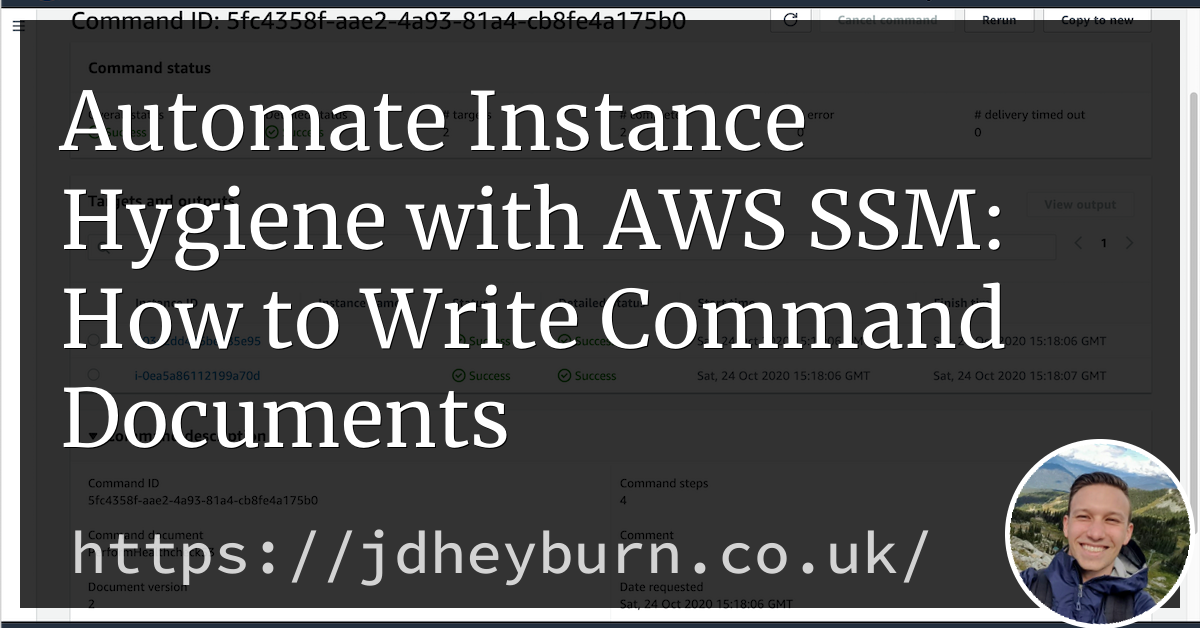
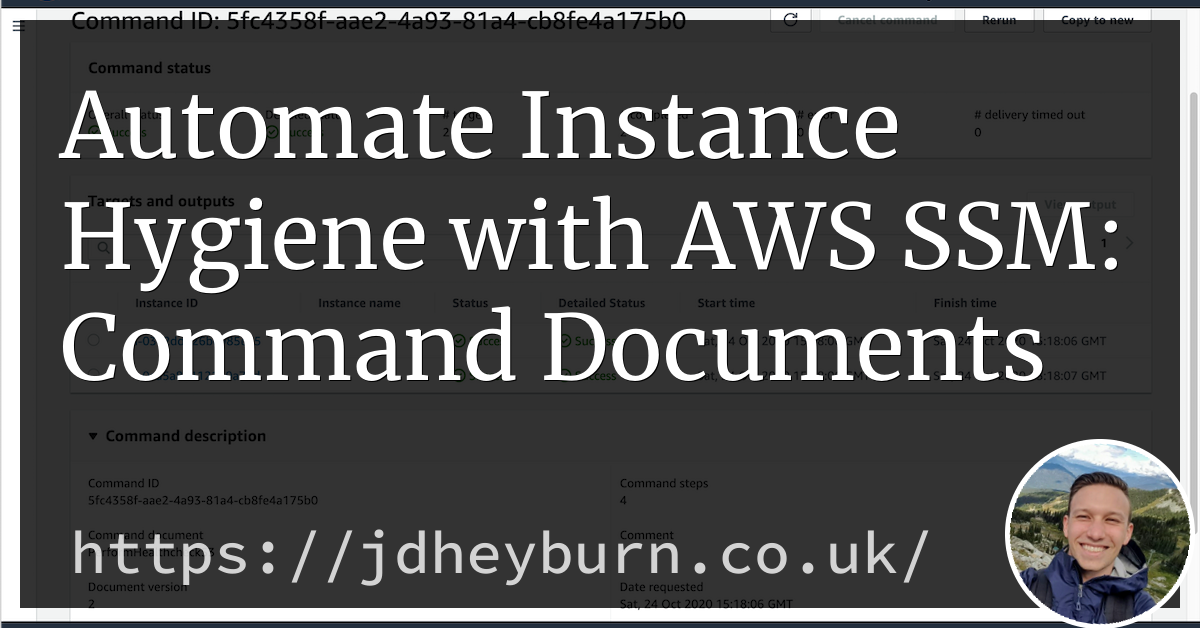
Go live

Changed region(s): [[0.0308, 0.121, 0.925, 0.7261]]

diff --git a/content/blog/automate-instance-hygiene-with-aws-ssm-0/index.md b/content/blog/automate-instance-hygiene-with-aws-ssm-0/index.md
@@ -1,6 +1,6 @@
 ---
-date: 2020-10-21
-title: "Automate Instance Hygiene with AWS SSM: How to Write Command Documents"
+date: 2020-10-29
+title: "Automate Instance Hygiene with AWS SSM: Command Documents"
 description: Exploring how to execute scripts across multiple platforms with AWS SSM Command Documents
 type: posts
 series:
@@ -9,8 +9,8 @@ tags:
   - aws
   - ssm
   - automation
+  - terraform
   - patching
-draft: true
 ---
 
 It's been a while since my [last post](/blog/assertions-in-gotests-test-generation/)... which could be down to me trying to salvage something out of summer! :sweat_smile:
@@ -29,7 +29,7 @@ This will be part one of a four part series about SSM Automation. The outline of
 To summarise the key parts of this post:
 
 - SSM can be used to automate several parts of your estate
-- Command documents are a means of you being able to execute logically indifferent commands across multiple platforms
+- Command documents are a means of executing logically indifferent commands across multiple platforms
 - How to write a [basic command document](#terraforming-command-documents) in Terraform
 - How to write a [verbose command document](#terraforming-verbose-command-documents) in Terraform
 
